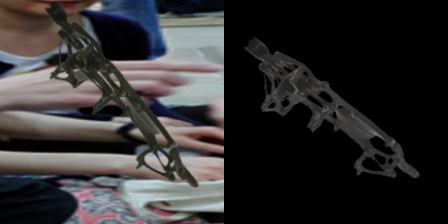
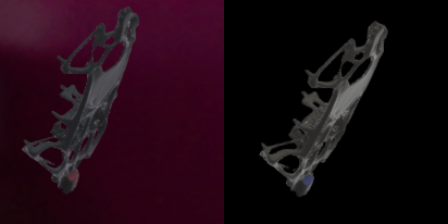
Adding pre rendered images for Refinement training

diff --git a/RefinedPoseEstimation/LoadDataset.py b/RefinedPoseEstimation/LoadDataset.py
@@ -159,12 +159,25 @@ class Dataset(torch.utils.data.Dataset):
 		try:
 			path = MAIN_DIR_PATH + "/Dataset/" + self.subset + "/"
 			self.index = index
-			real_image = self.io.load_numpy_file(path + "ImageBackground/" + "data_{}.np".format(index))
+			image_real = self.io.load_numpy_file(path + "ImageBackground/" + "data_{}.np".format(index))
 			json_data = self.io.load_json_file(path + "Pose/" + "data_{}.json".format(index))
-			mask = self.io.load_numpy_file(path + "Mask/" + "data_{}.np".format(index))
-			real_image = real_image# * np.expand_dims(mask, axis=-1)
-			target_pose = json_data["Pose"]
-			trans_matrix_target = self.transformations.get_transformation_matrix_from_pose(target_pose)
+			
+			real_pose = json_data["Pose"]
+   
+			refinement_pose_number = random.randint(0, 9)
+			path_datapoint = path + "ImageRefinement/" + "Data_{}/".format(index)
+			refinement_image_path = path_datapoint + "Image/" + "data_{}.npy".format(refinement_pose_number)
+			refinement_data_path = path_datapoint + "Pose/" + "data_{}.json".format(refinement_pose_number)
+   
+			rendered_image = self.io.load_numpy_file(refinement_image_path)
+			rendered_data = self.io.load_json_file(refinement_data_path)
+			rendered_pose = rendered_data["Pose"]
+			rendered_bbox = rendered_data["Box"]
+			trans_matrix_real = self.transformations.get_transformation_matrix_from_pose(real_pose)
+			trans_matrix_rendered = self.transformations.get_transformation_matrix_from_pose(rendered_pose)
+   
+			image_real = self.crop_and_resize(image_real, rendered_bbox)
+			"""trans_matrix_target = self.transformations.get_transformation_matrix_from_pose(target_pose)
 
 			coarse_pose1 = self.distort_target_pose(target_pose)
 			trans_matrix_coarse1 = self.transformations.get_transformation_matrix_from_pose(coarse_pose1) 
@@ -179,16 +192,17 @@ class Dataset(torch.utils.data.Dataset):
    
 			real_image = self.crop_and_resize(real_image, bbox_crop)
 			
-			refinement_image1 = self.crop_and_resize(refinement_image1, bbox_crop)
+			refinement_image1 = self.crop_and_resize(refinement_image1, bbox_crop)"""
 				
 			if self.data_augmentation:
-				real_image = self.data_augmentation(image=real_image)["image"]
-			image_tensor = NormalizeToTensor(image=real_image)["image"]
-			refinement_image_tensor1 = NormalizeToTensor(image=refinement_image1)["image"]
+				image_real = self.data_augmentation(image=image_real)["image"]
+			image_tensor = NormalizeToTensor(image=image_real)["image"]
+			refinement_image_tensor1 = NormalizeToTensor(image=rendered_image)["image"]
 
 			return image_tensor, refinement_image_tensor1, \
-				torch.tensor(trans_matrix_target, dtype=torch.float32), \
-				torch.tensor(trans_matrix_coarse1, dtype=torch.float32)
-		except:
+				torch.tensor(trans_matrix_real, dtype=torch.float32), \
+				torch.tensor(trans_matrix_rendered, dtype=torch.float32)
+		except Exception as e:
+			print(e)
 			print("IMAGE ERROR IS: ", index)
 			self.__getitem__(index)

diff --git a/RefinedPoseEstimation/TrainModel.py b/RefinedPoseEstimation/TrainModel.py
@@ -129,19 +129,19 @@ def main(pose_refiner_model, optimizer, training_dataloader, validation_dataload
 		if valid_l_rotation + valid_l_xy + valid_l_z < smallest_loss:
 			smallest_loss = valid_l_rotation + valid_l_xy + valid_l_z
 		print("SAVING MODEL")
-		torch.save(pose_refiner_model.state_dict(), "{}.pt".format("./TrainedModels/RefinedPoseEstimationModel"))
+		#torch.save(pose_refiner_model.state_dict(), "{}.pt".format("./TrainedModels/RefinedPoseEstimationModel"))
 		print("MODEL WAS SUCCESSFULLY SAVED!")
-		pid = os.getpid()
+		"""pid = os.getpid()
 		print("THE CURRENT PROCESS WITH PID : {} HAS BEEN KILLED".format(pid))
 		subprocess.run(["python3", "TrainModel.py"])
-		os.kill(pid, signal.SIGKILL)
+		os.kill(pid, signal.SIGKILL)"""
 
 
 if __name__ == "__main__":
 	torch.autograd.set_detect_anomaly(True)
 	dataset_renderer = DatasetRenderer()
 	pose_refiner_model = PoseRefinementNetwork().to(DEVICE).apply(init_weights)
-	pose_refiner_model.load_state_dict(torch.load("./TrainedModels/RefinedPoseEstimationModel.pt", map_location="cpu"))
+	#pose_refiner_model.load_state_dict(torch.load("./TrainedModels/RefinedPoseEstimationModel.pt", map_location="cpu"))
 	
 	io = IOUtils()
 	point_cloud = io.load_numpy_file(MAIN_DIR_PATH + "/DatasetRenderer/Models3D/Chassis/SparcePointCloud5k.npy")
@@ -149,8 +149,8 @@ if __name__ == "__main__":
  
 	optimizer = torch.optim.Adam(lr=LEARNING_RATE, params=pose_refiner_model.parameters())
 	l1_loss_function = ProjectionLoss(point_cloud=point_cloud_torch, device=DEVICE)#nn.L1Loss(reduction="sum")
-	train_dataset = Dataset("Training", 10000, dataset_renderer, PoseEstimationAugmentation)
-	validation_dataset = Dataset("Validation", 2000, dataset_renderer, None)
+	train_dataset = Dataset("Training", 32, dataset_renderer, PoseEstimationAugmentation)
+	validation_dataset = Dataset("Validation", 4, dataset_renderer, None)
 
 	training_dataloader = DataLoader(train_dataset, batch_size=BATCH_SIZE, shuffle=False, pin_memory=True)
 	validation_dataloader = DataLoader(validation_dataset, batch_size=BATCH_SIZE, shuffle=False, pin_memory=True)

diff --git a/RefinedPoseEstimation/GenerateRefinementPoses.py b/RefinedPoseEstimation/GenerateRefinementPoses.py
@@ -57,7 +57,7 @@ def get_centered_bbox(trans_matrix, bbox_rendered, bbox_image):
     y_min = y_c_projected - int(size//2)
     x_max = x_c_projected + int(size//2)
     y_max = y_c_projected + int(size//2)
-    return x_min, y_min, x_max, y_max
+    return int(x_min), int(y_min), int(x_max), int(y_max)
 
 def generate_refinement_image(subset, index):
     path = MAIN_DIR_PATH + "Dataset/" + subset + "/"
@@ -85,8 +85,10 @@ def generate_refinement_image(subset, index):
         
         rendered_image_cropped = crop_and_resize(rendered_image, bbox_crop)
         
+        data_json = {"Pose": pose_rendered, "Box": bbox_crop}
+        
         io.save_numpy_file(path_datapoint + "Image/" + "data_{}.npy".format(i), rendered_image_cropped)
-        io.save_json_file(path_datapoint + "Pose/" + "data_{}.json".format(i), pose_rendered)
+        io.save_json_file(path_datapoint + "Pose/" + "data_{}.json".format(i), data_json)
         print("Rendered image number {} with pose {} was genedered".format(i, pose_rendered))
         
 
